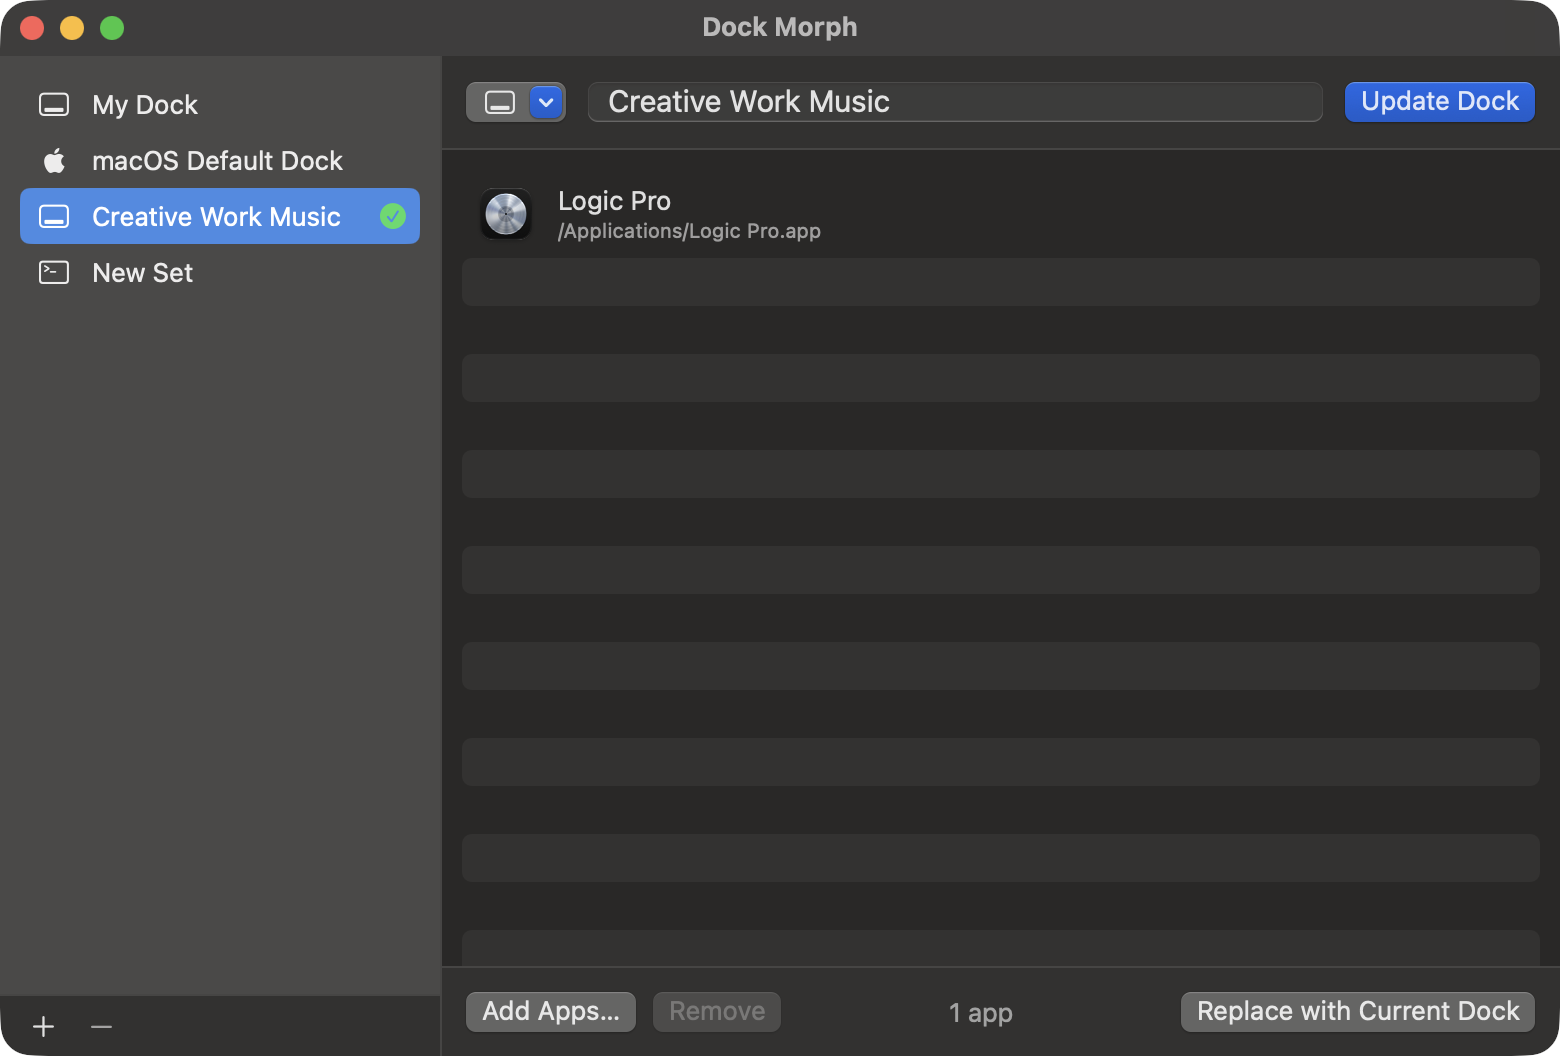
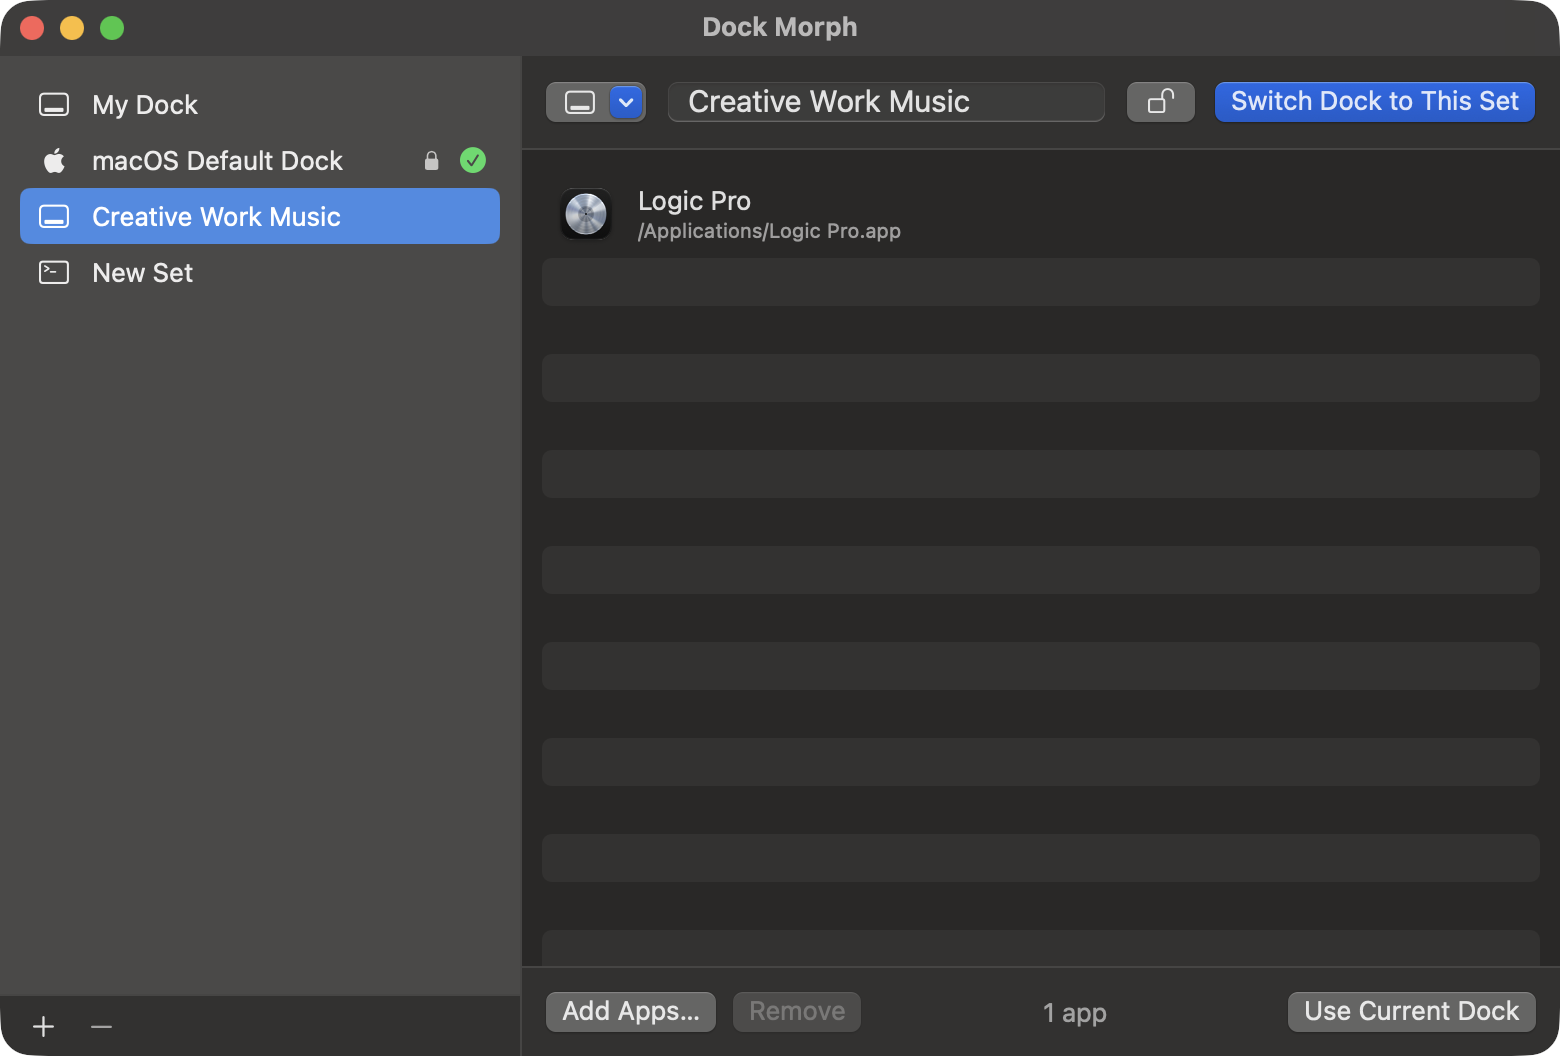
locking mechanism

diff --git a/Sources/DockMorph/EditorView.swift b/Sources/DockMorph/EditorView.swift
@@ -21,7 +21,7 @@ struct EditorView: View {
     var body: some View {
         HStack(spacing: 0) {
             sidebar
-                .frame(width: 220)
+                .frame(width: 260)
             Divider()
             detail
                 .frame(maxWidth: .infinity, maxHeight: .infinity)
@@ -55,6 +55,12 @@ struct EditorView: View {
                         Text(set.name.isEmpty ? "Untitled" : set.name)
                             .lineLimit(1)
                         Spacer()
+                        if set.locked {
+                            Image(systemName: "lock.fill")
+                                .font(.caption)
+                                .foregroundStyle(.secondary)
+                                .help("Locked")
+                        }
                         if set.id == store.activeSetID {
                             Image(systemName: "checkmark.circle.fill")
                                 .foregroundStyle(.green)
@@ -68,7 +74,14 @@ struct EditorView: View {
                             ui.selection = store.addSet(name: "\(set.name) Copy", apps: set.apps).id
                         }
                         Divider()
+                        Button(set.locked ? "Unlock" : "Lock") { store.setLocked(!set.locked, for: set.id) }
+                        if set.builtIn != nil {
+                            Button("Revert to Default") { store.revertToDefault(set.id) }
+                                .disabled(set.locked || !store.isModified(set))
+                        }
+                        Divider()
                         Button("Delete", role: .destructive) { delete(set.id) }
+                            .disabled(!store.canRemove(set))
                     }
                 }
                 .onMove { store.sets.move(fromOffsets: $0, toOffset: $1) }
@@ -81,7 +94,6 @@ struct EditorView: View {
                 Menu {
                     Button("Empty Set") { ui.selection = store.addSet().id }
                     Button("From Current Dock") { ui.selection = store.addSetFromCurrentDock().id }
-                    Button("macOS Default Dock") { ui.selection = store.addMacOSDefaultSet().id }
                 } label: {
                     Image(systemName: "plus")
                 }
@@ -96,8 +108,8 @@ struct EditorView: View {
                     Image(systemName: "minus")
                 }
                 .buttonStyle(.borderless)
-                .disabled(ui.selection == nil)
-                .help("Delete the selected dock set")
+                .disabled(!(store.sets.first { $0.id == ui.selection }.map(store.canRemove) ?? false))
+                .help("Delete the selected dock set (built-in and locked sets can't be deleted)")
 
                 Spacer()
             }
@@ -136,7 +148,9 @@ struct EditorView: View {
 
     private func delete(_ id: UUID) {
         store.remove(id)
-        if ui.selection == id { ui.selection = store.sets.first?.id }
+        if ui.selection == id, !store.sets.contains(where: { $0.id == id }) {
+            ui.selection = store.sets.first?.id
+        }
     }
 }
 
@@ -181,6 +195,7 @@ struct SetDetailView: View {
             footer
         }
         .dropDestination(for: URL.self) { urls, _ in
+            guard !set.locked else { return false }
             add(urls)
             return true
         }
@@ -205,11 +220,22 @@ struct SetDetailView: View {
                     .frame(width: 22)
             }
             .fixedSize()
+            .disabled(set.locked)
             .help("Menu bar icon for this set")
 
             TextField("Set name", text: $set.name)
                 .textFieldStyle(.roundedBorder)
                 .font(.title3)
+                .disabled(set.locked)
+
+            Button {
+                set.locked.toggle()
+            } label: {
+                Image(systemName: set.locked ? "lock.fill" : "lock.open")
+                    .frame(width: 18)
+            }
+            .help(set.locked ? "Locked — click to allow changes to this set"
+                             : "Lock this set so it can't be changed or deleted")
 
             Button(isActive ? "Update Dock" : "Switch Dock to This Set") {
                 store.apply(set)
@@ -227,7 +253,7 @@ struct SetDetailView: View {
                 .foregroundStyle(.secondary)
             Text("No apps in this set")
                 .font(.headline)
-            Text("Click Add Apps, or drag apps here from Finder.")
+            Text(set.locked ? "Unlock this set to add apps." : "Click Add Apps, or drag apps here from Finder.")
                 .foregroundStyle(.secondary)
         }
         .frame(maxWidth: .infinity, maxHeight: .infinity)
@@ -245,10 +271,11 @@ struct SetDetailView: View {
                         Button("Remove from Set", role: .destructive) {
                             set.apps.removeAll { $0 == path }
                         }
+                        .disabled(set.locked)
                     }
             }
-            .onMove { set.apps.move(fromOffsets: $0, toOffset: $1) }
-            .onDelete { set.apps.remove(atOffsets: $0) }
+            .onMove(perform: set.locked ? nil : { set.apps.move(fromOffsets: $0, toOffset: $1) })
+            .onDelete(perform: set.locked ? nil : { set.apps.remove(atOffsets: $0) })
         }
         .listStyle(.inset(alternatesRowBackgrounds: true))
         .onDeleteCommand(perform: removeSelected)
@@ -257,19 +284,28 @@ struct SetDetailView: View {
     private var footer: some View {
         HStack {
             Button("Add Apps…", action: chooseApps)
+                .disabled(set.locked)
             Button("Remove", action: removeSelected)
-                .disabled(ui.selectedApps.isEmpty)
+                .disabled(set.locked || ui.selectedApps.isEmpty)
             Spacer()
-            Text(set.apps.count == 1 ? "1 app" : "\(set.apps.count) apps")
+            Text((set.apps.count == 1 ? "1 app" : "\(set.apps.count) apps") + (set.locked ? " · Locked" : ""))
                 .foregroundStyle(.secondary)
             Spacer()
-            Button("Replace with Current Dock") {
+            if set.builtIn != nil {
+                Button("Revert") { store.revertToDefault(set.id) }
+                    .fixedSize()
+                    .disabled(set.locked || !store.isModified(set))
+                    .help("Restore this built-in set's original name, icon and apps")
+            }
+            Button("Use Current Dock") {
                 if set.apps.isEmpty {
                     set.apps = DockController.currentAppPaths()
                 } else {
                     ui.confirmReplace = true
                 }
             }
+            .fixedSize()
+            .disabled(set.locked)
         }
         .padding(12)
     }
@@ -295,6 +331,7 @@ struct SetDetailView: View {
     }
 
     private func removeSelected() {
+        guard !set.locked else { return }
         set.apps.removeAll { ui.selectedApps.contains($0) }
         ui.selectedApps.removeAll()
     }

diff --git a/Sources/DockMorph/DockStore.swift b/Sources/DockMorph/DockStore.swift
@@ -1,5 +1,30 @@
 import Foundation
 
+/// Sets that ship with Dock Morph. They are always present, can't be deleted, and can be
+/// reverted to their factory contents at any time.
+enum BuiltInSet: String, Codable, CaseIterable {
+    case macOSDefault = "macos-default"
+
+    var name: String {
+        switch self {
+        case .macOSDefault: return "macOS Default Dock"
+        }
+    }
+
+    var symbol: String {
+        switch self {
+        case .macOSDefault: return "apple.logo"
+        }
+    }
+
+    /// Factory contents, computed for this Mac and macOS version.
+    func apps() -> [String] {
+        switch self {
+        case .macOSDefault: return DockController.macOSDefaultAppPaths()
+        }
+    }
+}
+
 struct DockSet: Identifiable, Codable, Equatable {
     var id = UUID()
     var name: String
@@ -7,6 +32,31 @@ struct DockSet: Identifiable, Codable, Equatable {
     var symbol: String = "dock.rectangle"
     /// Absolute paths of the .app bundles, in Dock order.
     var apps: [String] = []
+    /// A locked set can't be renamed, edited or deleted until it is unlocked.
+    var locked = false
+    /// Set for the sets that ship with Dock Morph.
+    var builtIn: BuiltInSet?
+
+    init(name: String, symbol: String = "dock.rectangle", apps: [String] = [],
+         locked: Bool = false, builtIn: BuiltInSet? = nil) {
+        self.name = name
+        self.symbol = symbol
+        self.apps = apps
+        self.locked = locked
+        self.builtIn = builtIn
+    }
+
+    // Decoded by hand so sets saved by older versions (without the newer fields) still load.
+    init(from decoder: Decoder) throws {
+        let values = try decoder.container(keyedBy: CodingKeys.self)
+        id = try values.decode(UUID.self, forKey: .id)
+        name = try values.decode(String.self, forKey: .name)
+        symbol = try values.decodeIfPresent(String.self, forKey: .symbol) ?? "dock.rectangle"
+        apps = try values.decodeIfPresent([String].self, forKey: .apps) ?? []
+        locked = try values.decodeIfPresent(Bool.self, forKey: .locked) ?? false
+        builtIn = (try? values.decodeIfPresent(String.self, forKey: .builtIn)).flatMap { $0 }
+            .flatMap(BuiltInSet.init(rawValue:))
+    }
 }
 
 /// The user's dock sets, persisted to ~/Library/Application Support/DockMorph/sets.json.
@@ -45,9 +95,8 @@ final class DockStore: ObservableObject {
             sets = [current]
             activeSetID = current.id
             isLoading = false
-            addMacOSDefaultSet()
-            save()
         }
+        ensureBuiltInSets()
     }
 
     var activeSet: DockSet? { sets.first { $0.id == activeSetID } }
@@ -83,18 +132,54 @@ final class DockStore: ObservableObject {
         addSet(name: "Current Dock", apps: DockController.currentAppPaths())
     }
 
-    /// Adds a set containing only the built-in apps from a factory-fresh macOS Dock.
-    @discardableResult
-    func addMacOSDefaultSet() -> DockSet {
-        var set = addSet(name: "macOS Default Dock", apps: DockController.macOSDefaultAppPaths())
-        set.symbol = "apple.logo"
-        sets[sets.count - 1] = set
-        return set
+    /// Built-in and locked sets can't be deleted.
+    func canRemove(_ set: DockSet) -> Bool {
+        set.builtIn == nil && !set.locked
     }
 
     func remove(_ id: UUID) {
+        guard let set = sets.first(where: { $0.id == id }), canRemove(set) else { return }
         sets.removeAll { $0.id == id }
         if activeSetID == id { activeSetID = nil }
+    }
+
+    func setLocked(_ locked: Bool, for id: UUID) {
+        guard let index = sets.firstIndex(where: { $0.id == id }) else { return }
+        sets[index].locked = locked
+    }
+
+    // MARK: Built-in sets
+
+    /// Makes sure every built-in set exists. A set an older version created under the same
+    /// name is adopted rather than duplicated. New built-in sets start out locked.
+    private func ensureBuiltInSets() {
+        var updated = sets
+        for builtIn in BuiltInSet.allCases where !updated.contains(where: { $0.builtIn == builtIn }) {
+            if let index = updated.firstIndex(where: { $0.builtIn == nil && $0.name == builtIn.name }) {
+                updated[index].builtIn = builtIn
+                // Lock it only if it still has its factory contents, so an edited one can be reverted.
+                updated[index].locked = !isModified(updated[index])
+            } else {
+                updated.append(DockSet(name: builtIn.name, symbol: builtIn.symbol, apps: builtIn.apps(),
+                                       locked: true, builtIn: builtIn))
+            }
+        }
+        if updated != sets { sets = updated }
+    }
+
+    /// True when a built-in set no longer matches its factory name, icon or apps.
+    func isModified(_ set: DockSet) -> Bool {
+        guard let builtIn = set.builtIn else { return false }
+        return set.name != builtIn.name || set.symbol != builtIn.symbol || set.apps != builtIn.apps()
+    }
+
+    /// Puts a built-in set back to its factory name, icon and apps. Locked sets are left alone.
+    func revertToDefault(_ id: UUID) {
+        guard let index = sets.firstIndex(where: { $0.id == id }),
+              let builtIn = sets[index].builtIn, !sets[index].locked else { return }
+        sets[index].name = builtIn.name
+        sets[index].symbol = builtIn.symbol
+        sets[index].apps = builtIn.apps()
     }
 
     // MARK: Persistence
@@ -108,6 +193,7 @@ final class DockStore: ObservableObject {
         sets = saved.sets
         activeSetID = saved.activeSetID
         isLoading = false
+        ensureBuiltInSets()
         return true
     }
 

diff --git a/Sources/DockMorph/CommandLineInterface.swift b/Sources/DockMorph/CommandLineInterface.swift
@@ -4,7 +4,7 @@ import Foundation
 ///   DockMorph --list            list the sets (the active one is starred)
 ///   DockMorph --apply <name>    switch the Dock to a set
 ///   DockMorph --current         print the apps pinned in the Dock right now
-///   DockMorph --add-default-set add a set with macOS's built-in default Dock apps
+///   DockMorph --revert <name>   restore a built-in set to its default apps
 enum CommandLineInterface {
     /// Returns an exit status when the arguments were a CLI command, nil to launch the app.
     static func run(_ arguments: [String]) -> Int32? {
@@ -13,7 +13,9 @@ enum CommandLineInterface {
         case "--list":
             let store = DockStore.shared
             for set in store.sets {
-                print("\(set.id == store.activeSetID ? "*" : " ") \(set.name) (\(set.apps.count) apps)")
+                let flags = [set.builtIn != nil ? "built-in" : nil, set.locked ? "locked" : nil].compactMap { $0 }
+                let suffix = flags.isEmpty ? "" : " [" + flags.joined(separator: ", ") + "]"
+                print("\(set.id == store.activeSetID ? "*" : " ") \(set.name) (\(set.apps.count) apps)\(suffix)")
             }
             return 0
 
@@ -38,17 +40,27 @@ enum CommandLineInterface {
             print("Dock switched to \(set.name)")
             return 0
 
-        case "--add-default-set":
+        case "--revert":
+            let name = arguments.dropFirst().joined(separator: " ")
             let store = DockStore.shared
-            let set = store.addMacOSDefaultSet()
+            guard let set = store.sets.first(where: { $0.name.caseInsensitiveCompare(name) == .orderedSame }),
+                  set.builtIn != nil else {
+                FileHandle.standardError.write(Data("No built-in dock set named \"\(name)\".\n".utf8))
+                return 1
+            }
+            guard !set.locked else {
+                FileHandle.standardError.write(Data("\(set.name) is locked. Unlock it in Dock Morph first.\n".utf8))
+                return 1
+            }
+            store.revertToDefault(set.id)
             DistributedNotificationCenter.default().postNotificationName(
                 DockStore.changedNotification, object: nil, userInfo: nil, deliverImmediately: true)
-            print("Added \(set.name) (\(set.apps.count) apps)")
+            print("Reverted \(set.name) to its default apps")
             return 0
 
         case "--help", "-h":
             print("""
-            usage: DockMorph [--list | --apply <set name> | --current | --add-default-set]
+            usage: DockMorph [--list | --apply <set name> | --current | --revert <set name>]
             With no arguments, starts the menu bar app.
             """)
             return 0

diff --git a/README.md b/README.md
@@ -3,11 +3,11 @@
 A macOS menu bar app that switches the Dock between named sets of apps — one for creative work,
 one for research, one for development, and so on.
 
-![Dock Morph's editor window showing dock sets on the left and the apps in the selected set](docs/screenshot.png)
+![Dock Morph's editor window showing dock sets on the left and the locked, built-in macOS Default Dock set selected](docs/screenshot.png)
 
-A small, focused set — just Logic Pro for music work — currently active in the Dock:
+A small, focused set — just Logic Pro for music work:
 
-![Dock Morph with the Creative Work Music set selected and marked as the active Dock](docs/screenshot-creative.png)
+![Dock Morph with the Creative Work Music set selected](docs/screenshot-creative.png)
 
 ## Build and run
 
@@ -29,6 +29,10 @@ copy `build/Dock Morph.app` to `/Applications` and turn on **Launch at Login** f
   the active set's symbol.
 - **Edit Dock Sets…** — add, rename, duplicate and delete sets; add apps with **Add Apps…** or by
   dragging them in from Finder; drag rows to reorder.
+- **macOS Default Dock** is built in: it holds the apps Apple ships in a new Mac's Dock, can't be
+  deleted, and **Revert** restores it if you've changed it.
+- **Lock** (the padlock next to a set's name) stops a set from being renamed, edited or deleted
+  until you unlock it. The built-in set starts out locked.
 - **New Set from Current Dock** — arrange the Dock by hand, then capture it as a set.
 
 Switching rewrites the app section of the Dock (`persistent-apps` in `com.apple.dock`) and runs
@@ -43,6 +47,10 @@ that are running but not in the set still show in the Dock until you quit them, 
 
 ```bash
 "build/Dock Morph.app/Contents/MacOS/DockMorph" --apply "Development"
+```
+
+```bash
+"build/Dock Morph.app/Contents/MacOS/DockMorph" --revert "macOS Default Dock"
 ```
 
 ## Files
